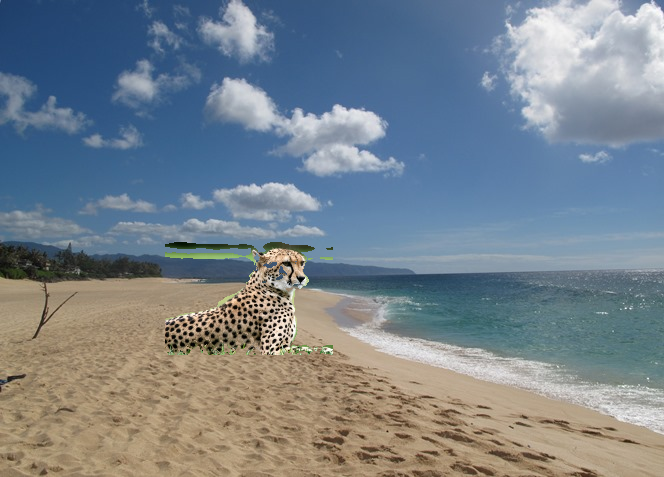
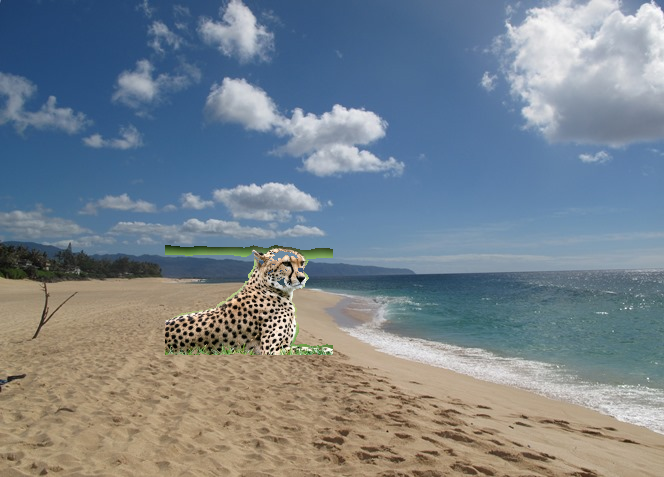
transferred two animals onto white bg

Changed region(s): [[0.241, 0.499, 0.512, 0.6164], [0.241, 0.7044, 0.3916, 0.7631], [0.4518, 0.7044, 0.4819, 0.7631]]

diff --git a/homework2/writeup/cvip_hw2_writeup.tex b/homework2/writeup/cvip_hw2_writeup.tex
@@ -90,13 +90,13 @@ There are a number of problems with the output of this implementation.  The bigg
 
 \begin{figure}[H]
 	\begin{subfigure}[b]{0.48\textwidth}
-        \includegraphics[width=\textwidth]{../output/cheetah_seg_k=4.png}
-        \caption{Cheetah Segmentation with $k=4$}
+        \includegraphics[width=\textwidth]{../output/cheetah4.png}
+        \caption{Cheetah Segmentation with $k=8$}
         \label{fig:CheetahSeg}
 	\end{subfigure}
 	\begin{subfigure}[b]{0.48\textwidth}
-        \includegraphics[width=\textwidth]{../output/dog_seg_k=4.png}
-        \caption{Dog Segmentation with $k=4$}
+        \includegraphics[width=\textwidth]{../output/gecko4.png}
+        \caption{Gecko Segmentation with $k=6$}
         \label{fig:DogSeg}
 	\end{subfigure}
 \end{figure}
@@ -115,8 +115,7 @@ There are a number of problems with the output of this implementation.  The bigg
         \caption{Dog}
         \label{fig:Dog}
 	\end{subfigure}
-\end{figure}
-\begin{figure}[H]
+
 	\begin{subfigure}[b]{0.9\textwidth}
         \includegraphics[width=\textwidth]{../output/gecko2_k=5.png}
         \caption{Gecko}

diff --git a/homework2/transfer_all_foregrounds.m b/homework2/transfer_all_foregrounds.m
@@ -6,13 +6,16 @@ function transfer_all_foregrounds(imname, idx, fgs)
     bg = imread('images/bg.jpg');
     bg2 = imread('images/bg2.jpg');
     bg3 = imread('images/bg3.jpg');
+    bg4 = 255 .* bg;
     
     out1 = transferImg(fgs, idx, I, bg);
     out2 = transferImg(fgs, idx, I, bg2);
     out3 = transferImg(fgs, idx, I, bg3);
+    out4 = transferImg(fgs, idx, I, bg4);
     
     imwrite(out1, ['output/' imname '1.png']);
     imwrite(out2, ['output/' imname '2.png']);
     imwrite(out3, ['output/' imname '3.png']);
+    imwrite(out4, ['output/' imname '4.png']);
     
     
